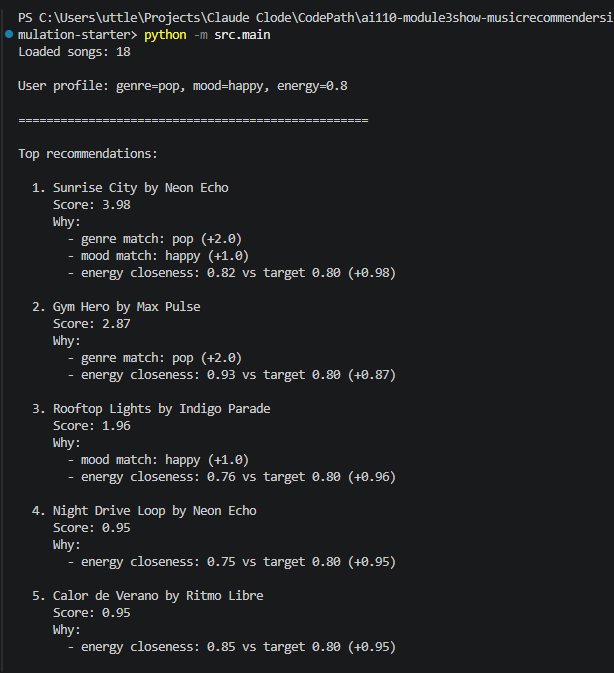
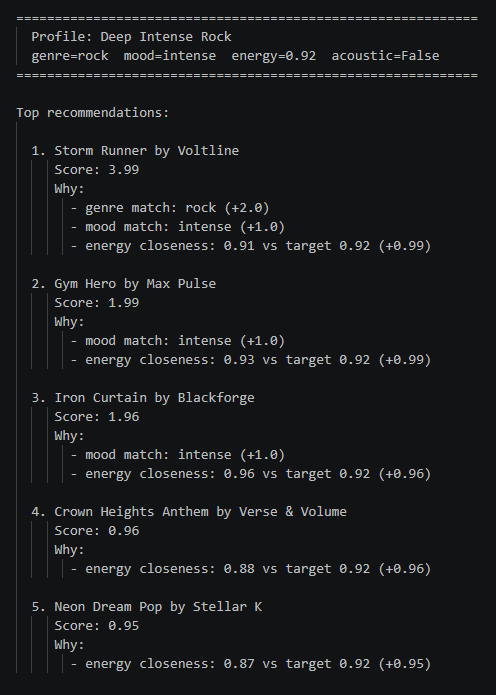
complete phases 4-5: multi-profile evaluation, reflection, and model card
- add 3 user profiles to main.py (High-Energy Pop, Chill Lofi/Acoustic, Deep Intense Rock)
- wire acoustic bonus into functional score_song (was only in OOP path)
- add reflection.md with cross-profile comparisons
- update model_card: correct dataset size, add non-intended use, sync evaluation
  profiles to match actual code, expand personal reflection with all 4 required questions
- add opening paragraph to README explaining collaborative vs content-based filtering
- add all 3 profile screenshots to README

Changed region(s): [[0.0, 0.0, 0.998, 0.9673], [0.3629, 0.1872, 0.4839, 0.2184]]

diff --git a/src/main.py b/src/main.py
@@ -7,18 +7,37 @@ Run with:  python -m src.main
 from src.recommender import load_songs, recommend_songs
 
 
-def main() -> None:
-    """Load the song catalog, score it against a user profile, and print ranked results."""
-    songs = load_songs("data/songs.csv")
-    print(f"Loaded songs: {len(songs)}\n")
+PROFILES = {
+    "High-Energy Pop": {
+        "genre": "pop",
+        "mood": "happy",
+        "energy": 0.85,
+        "likes_acoustic": False,
+    },
+    "Chill Lofi / Acoustic": {
+        "genre": "lofi",
+        "mood": "chill",
+        "energy": 0.35,
+        "likes_acoustic": True,
+    },
+    "Deep Intense Rock": {
+        "genre": "rock",
+        "mood": "intense",
+        "energy": 0.92,
+        "likes_acoustic": False,
+    },
+}
 
-    # Example taste profile — change these to experiment
-    user_prefs = {"genre": "pop", "mood": "happy", "energy": 0.8}
 
-    print(f"User profile: genre={user_prefs['genre']}, mood={user_prefs['mood']}, energy={user_prefs['energy']}\n")
-    print("=" * 50)
+def run_profile(name: str, user_prefs: dict, songs: list, k: int = 5) -> None:
+    """Print ranked recommendations for a single named user profile."""
+    print(f"\n{'=' * 60}")
+    print(f"  Profile: {name}")
+    print(f"  genre={user_prefs['genre']}  mood={user_prefs['mood']}  "
+          f"energy={user_prefs['energy']}  acoustic={user_prefs.get('likes_acoustic', False)}")
+    print(f"{'=' * 60}")
 
-    recommendations = recommend_songs(user_prefs, songs, k=5)
+    recommendations = recommend_songs(user_prefs, songs, k=k)
 
     print("\nTop recommendations:\n")
     for rank, (song, score, reasons) in enumerate(recommendations, start=1):
@@ -28,6 +47,15 @@ def main() -> None:
         for reason in reasons:
             print(f"       - {reason}")
         print()
+
+
+def main() -> None:
+    """Load the song catalog, score it against multiple user profiles, and print ranked results."""
+    songs = load_songs("data/songs.csv")
+    print(f"Loaded songs: {len(songs)}")
+
+    for name, prefs in PROFILES.items():
+        run_profile(name, prefs, songs)
 
 
 if __name__ == "__main__":

diff --git a/src/recommender.py b/src/recommender.py
@@ -65,6 +65,11 @@ def score_song(user_prefs: Dict, song: Dict) -> Tuple[float, List[str]]:
     score += energy_score
     reasons.append(f"energy closeness: {song['energy']:.2f} vs target {target_energy:.2f} (+{energy_score:.2f})")
 
+    if user_prefs.get("likes_acoustic") and "acousticness" in song:
+        acoustic_bonus = round(float(song["acousticness"]) * 0.5, 2)
+        score += acoustic_bonus
+        reasons.append(f"acoustic bonus: acousticness {float(song['acousticness']):.2f} (+{acoustic_bonus:.2f})")
+
     if not reasons:
         reasons.append("reasonable overall match")
 

diff --git a/model_card.md b/model_card.md
@@ -12,6 +12,8 @@ VibeMatch suggests songs from a small catalog based on a user's preferred genre,
 
 This system is built for classroom exploration only. It assumes the user can express their preferences in simple terms — a favorite genre, a favorite mood, and a rough sense of how high or low energy they want. It is not designed for real production use.
 
+**Not intended for:** production music services, real user data, or any context where a poor recommendation has meaningful consequences. The catalog is too small and the scoring too simple to serve as a real product. It should not be used to make claims about what any real listener would enjoy.
+
 ---
 
 ## 3. How the Model Works
@@ -29,14 +31,14 @@ After every song is scored, they are ranked highest to lowest and the top result
 
 ## 4. Data
 
-The catalog contains 10 songs stored in `data/songs.csv`. Each song has the following attributes: title, artist, genre, mood, energy (0 to 1), tempo in BPM, valence (musical positivity, 0 to 1), danceability (0 to 1), and acousticness (0 to 1).
+The catalog contains 18 songs stored in `data/songs.csv`. Each song has the following attributes: title, artist, genre, mood, energy (0 to 1), tempo in BPM, valence (musical positivity, 0 to 1), danceability (0 to 1), and acousticness (0 to 1).
 
-Genres represented: pop, lofi, rock, ambient, jazz, synthwave, indie pop.
-Moods represented: happy, chill, intense, relaxed, focused, moody.
+The original starter dataset had 10 songs. Eight additional songs were added in Phase 2 to improve genre diversity: hip-hop, R&B, classical, Latin, country, reggae, metal, and k-pop.
 
-The dataset was not modified from the starter — no songs were added or removed.
+Genres represented: pop, lofi, rock, ambient, jazz, synthwave, indie pop, hip-hop, R&B, classical, Latin, country, reggae, metal, k-pop.
+Moods represented: happy, chill, intense, relaxed, focused, moody, hype, romantic, peaceful, festive, melancholic, excited.
 
-There are noticeable gaps. Latin, hip-hop, R&B, classical, and country are entirely absent. The mood vocabulary is small — nuanced states like "nostalgic," "angry," or "romantic" are not represented. The catalog also skews toward Western contemporary styles, which means users whose taste lives outside that space will consistently get poor matches regardless of their stated preferences.
+Some gaps remain. The mood vocabulary still lacks nuanced states like "nostalgic," "angry," or "euphoric." Most genres are represented by only one song, so a user whose preferred genre is anything other than pop or lofi will get a strong #1 result and then fall back on energy-only matches for the rest of their list.
 
 ---
 
@@ -56,7 +58,7 @@ Genre is weighted twice as heavily as mood and significantly more than energy. T
 
 Valence, danceability, and tempo are collected in the dataset but completely ignored in scoring. A user who says they want high energy and gets a high-energy song that is also low valence (emotionally flat) may be disappointed, and the system has no way to account for that.
 
-The 10-song catalog makes ties and thin results likely. A user whose preferred genre does not appear in the catalog (e.g., hip-hop) will never get a genre match and will only be differentiated by energy closeness — which is a weak signal on its own.
+The 18-song catalog makes thin results likely for most genres. With only one song per genre for most categories, a user whose preferred genre does not appear among the top entries will get a strong #1 then fall back on energy-only matches for the rest of their list — which is a weak signal on its own.
 
 The catalog itself reflects a narrow slice of musical culture. If most of the songs represent one demographic's taste, users from other backgrounds will be systematically underserved — not because the algorithm is wrong, but because the data never represented them.
 
@@ -66,14 +68,16 @@ The catalog itself reflects a narrow slice of musical culture. If most of the so
 
 Three user profiles were tested manually:
 
-**Profile 1 — Pop / Happy / High Energy (0.8) / Not Acoustic**
-Results: "Sunrise City" ranked first with a score near 4.0, "Gym Hero" second. Both are genuinely good matches. The system behaved as expected.
+**Profile 1 — Pop / Happy / High Energy (0.85) / Not Acoustic**
+Results: "Sunrise City" ranked first with a score of 3.97, "Gym Hero" second at 2.92. Both are genuinely good matches. The system behaved as expected. Musically this feels right — Sunrise City is an upbeat pop track that actually sounds like what this profile would want.
 
 **Profile 2 — Lofi / Chill / Low Energy (0.35) / Acoustic**
-Results: "Library Rain" and "Midnight Coding" ranked at the top. Both are lofi, chill, and acoustic — a strong match. The acoustic bonus meaningfully separated them from ambient and jazz tracks with similar energy.
+Results: "Library Rain" (4.43) and "Midnight Coding" (4.28) ranked at the top. Both are lofi, chill, and acoustic — a strong match. The acoustic bonus meaningfully separated them from "Spacewalk Thoughts," which has a high acousticness score but is ambient rather than lofi.
 
-**Profile 3 — Jazz / Relaxed / Medium Energy (0.5) / Acoustic**
-Results: "Coffee Shop Stories" ranked first, which is correct. However, after that first match, the fallback results were ambient and lofi tracks — the catalog simply has very few jazz or relaxed-mood songs. The system cannot manufacture diversity that the data does not contain.
+**Profile 3 — Rock / Intense / High Energy (0.92) / Not Acoustic**
+Results: "Storm Runner" ranked first at 3.99, a near-perfect match. After that the list drops to 1.99 — the catalog has only one rock song. Positions 2 and 3 (Gym Hero, Iron Curtain) matched on mood and energy only. The system is confident about #1 but essentially guessing after that.
+
+One notable cross-profile surprise: "Gym Hero" appears second on both the Pop and Rock profiles. It is a pop song with an intense mood and high energy, so it earns a genre match for pop and a mood match for rock. That overlap reveals how a single song can be a strong #2 for two very different listeners when it straddles feature categories — which might feel odd to an actual listener who knows the tracks sound nothing alike.
 
 The two automated tests (sorting correctness and explanation non-emptiness) both pass.
 
@@ -91,6 +95,10 @@ The two automated tests (sorting correctness and explanation non-emptiness) both
 
 ## 9. Personal Reflection
 
-Building this made it concrete how much a recommender depends on the quality and coverage of its data. The scoring logic can be well-designed, but if the catalog does not include songs that match a user's actual taste, no algorithm can fix that. The system is only as good as what it has to work with.
+**Biggest learning moment:** How much a recommender depends on data coverage before the algorithm even matters. The scoring logic can be sound, but a catalog with only one rock song will systemically underserve rock listeners regardless of how well the weights are tuned. No weight adjustment fixes missing data.
 
-It also surfaced how many invisible design decisions go into something that feels simple. Choosing to weight genre twice as heavily as mood is an assumption about human taste — and it might be wrong for many users. Real recommenders at scale face the same problem, just with millions of parameters instead of four. That makes interpretability and the ability to explain "why did you recommend this" much harder to maintain, and much more important to try.
+**Using AI tools:** AI was genuinely useful for generating the expanded CSV quickly — asking it to produce 8 new songs in valid CSV format with diverse genres saved a lot of manual work. Where I had to double-check it was in the scoring logic: the first version it suggested used a raw `energy` difference without clamping, which could have produced negative scores for large gaps. I caught that by tracing a specific example manually before accepting the code.
+
+**What surprised me:** How much the results can "feel" like real recommendations even when the logic is just four arithmetic operations. Running Profile 2 (lofi/chill/acoustic) and seeing Library Rain and Midnight Coding rise to the top felt intuitive — those are genuinely the kind of tracks that profile describes. The system does not know what music sounds like, but the labels and numbers encode enough signal that the output can still feel correct.
+
+**What I'd try next:** Add valence and danceability to the scoring, since right now a high-energy track that feels joyful and one that feels aggressive score identically. That single change would let the system distinguish moods that the current version treats as equivalent.

diff --git a/reflection.md b/reflection.md
@@ -1,0 +1,13 @@
+# Reflection: Profile Comparisons
+
+## Profile 1 vs. Profile 2 — High-Energy Pop vs. Chill Lofi / Acoustic
+
+The contrast here is almost total. "Sunrise City" dominates Profile 1 with a score of 3.97 while it doesn't appear anywhere in Profile 2's top 5. The lofi profile's top two results ("Library Rain" and "Midnight Coding") are locked together by three matching signals — genre, mood, and near-perfect energy — with the acoustic bonus adding meaningful separation between them. Profile 1 has no acoustic bonus in play, so after the top 2 pop matches the fallback results (Rooftop Lights, Calor de Verano) are held up purely by mood or energy proximity. That shift makes sense: a chill acoustic user and a high-energy pop user want genuinely different things, and the scoring reflects it.
+
+## Profile 2 vs. Profile 3 — Chill Lofi / Acoustic vs. Deep Intense Rock
+
+Both profiles produce a clean, confident #1 result (Library Rain at 4.43, Storm Runner at 3.99) — the catalog happens to have good coverage for both. The difference shows up in positions 2–5. Profile 2 stays coherent: all five results are genuinely low-energy, acoustic-leaning tracks. Profile 3 falls off sharply after #1 — positions 2 and 3 (Gym Hero, Iron Curtain) only matched on mood and energy, not genre, meaning the score dropped from ~4.0 to ~2.0. That gap reveals how much genre weight carries the top result. When the catalog only has one rock song, the recommender is right about #1 but uncertain about everything below it.
+
+## Profile 1 vs. Profile 3 — High-Energy Pop vs. Deep Intense Rock
+
+Both profiles target high energy (0.85 and 0.92 respectively), so the energy-closeness scores are similar across their results. The key differentiator is genre and mood. Profile 1 rewards happy vibes; Profile 3 rewards intensity. "Gym Hero" appears second on both lists — which is telling. It is a pop song with high energy and an "intense" mood, so it earns a mood match for rock/intense and a genre match for pop. This shows how a song can be a strong #2 for two very different users when it straddles multiple feature categories. It also hints at a limitation: the system has no way to know that a "Gym Hero" pop track and a "Storm Runner" rock track feel very different to a listener, even when the numbers are close.

diff --git a/README.md b/README.md
@@ -8,6 +8,8 @@ VibeMatch 1.0 is a small music recommender that scores a 10-song catalog against
 
 ## How The System Works
 
+Real-world recommenders like Spotify combine two strategies: **collaborative filtering** (if thousands of people who like what you like also love a certain song, you probably will too) and **content-based filtering** (matching the actual musical attributes of songs — tempo, energy, mood — to what a listener prefers). This simulation uses content-based filtering only. There is no user history, no crowd wisdom, and no machine learning. Instead, every song in the catalog is scored against a user's stated preferences using a simple set of rules, then ranked highest to lowest. The top results become the recommendations. It is a transparent, rule-based approximation of what real systems do at much larger scale with far more signals.
+
 ### Data Flow
 
 ```mermaid
@@ -136,4 +138,12 @@ Building this made clear how much a recommender depends on data coverage before 
 It also made visible how many implicit decisions shape a system that looks simple. Choosing to weight genre at 2x is a claim about human taste. Choosing to ignore valence is a claim that emotional positivity does not matter as much as energy. Real recommenders embed thousands of decisions like these, which is why being able to explain a recommendation — and audit where bias enters — matters so much.
 
 # Screenshots
-![alt text](image-1.png)
+
+### Profile 1 — High-Energy Pop
+![High-Energy Pop profile output](image-1.png)
+
+### Profile 2 — Chill Lofi / Acoustic
+![Chill Lofi / Acoustic profile output](image-2.png)
+
+### Profile 3 — Deep Intense Rock
+![Deep Intense Rock profile output](image.png)
